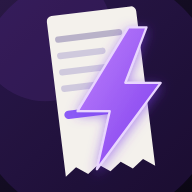
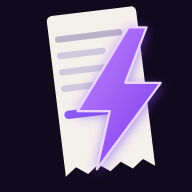
アイコン背景を単色に変更（左上の淡い紫グローを削除）
Claude-Session: https://claude.ai/code/session_01M7TmCoUV6As5ur3WRm9Z6P

diff --git a/docs/index.html b/docs/index.html
@@ -574,7 +574,7 @@ const DRAFT_IMAGE_ID = "__draft__";
 const CROP_DRAFT_IMAGE_ID = "__crop_draft__"; // トリミング前の選択写真（リロード復元用）
 const DEFAULT_MODEL = "gpt-5.4";
 // UIに関わる変更をpushするたびに更新する（設定タブに表示。キャッシュで旧版が出ていないかの確認用）
-const APP_VERSION = "2026-07-08.14 モデル選択をプルダウン化";
+const APP_VERSION = "2026-07-08.15 アイコン背景を単色に";
 
 // OCRプロンプト: ExpenseVBA(modReceiptOCR.bas)と同一文言。抽出品質を揃えるため変更時は両方を同期すること
 const PROMPT = [